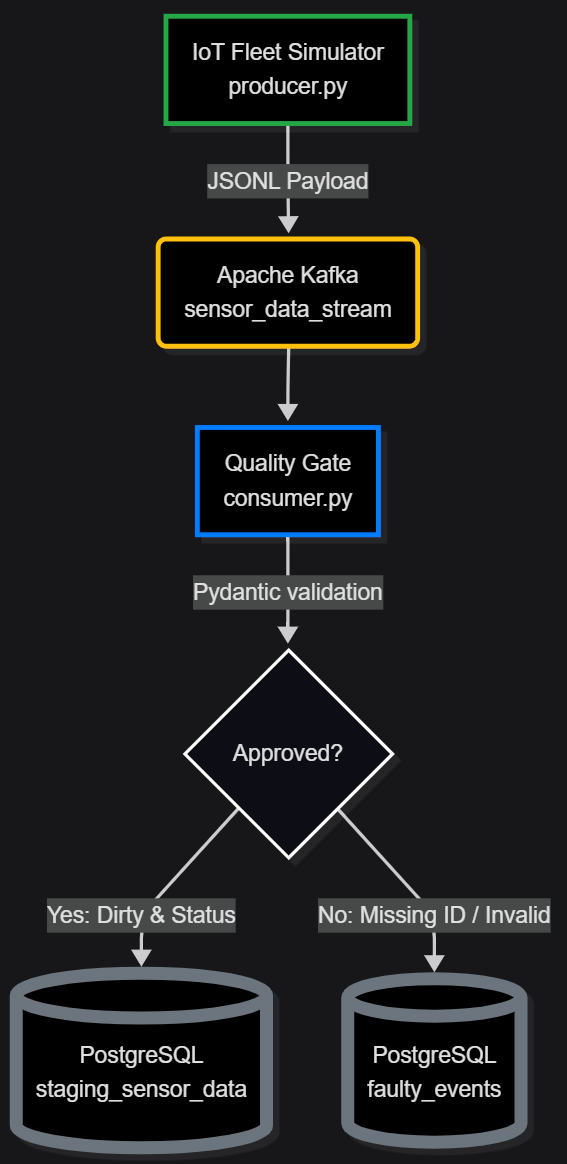
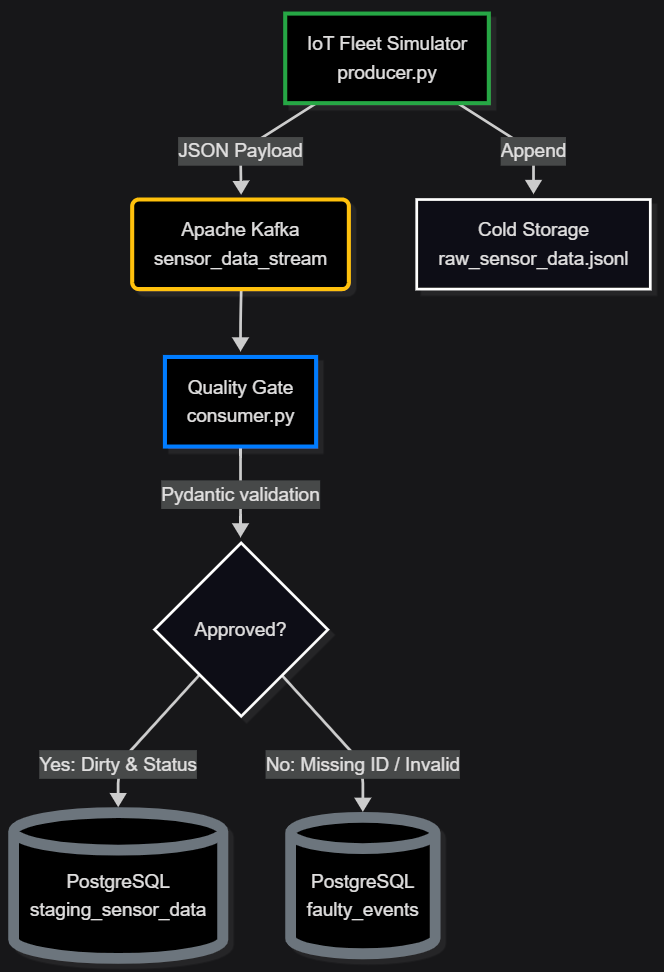
docs(update): updated docs and module overviews to be more correct (#83)

diff --git a/docs/database_design.md b/docs/database_design.md
@@ -33,7 +33,12 @@ Nej, det funkar utmärkt att ha allt i samma PostgreSQL databas! Det finns två 
 
 1. **Prefix (Det Vi i grupp 6 gör):** Tabellerna heter `staging_...`, `silver_...`, `dim_...` och `fact_...`. Namnet berättar vilket lager tabellen tillhör.
 
-2. **Schemas (Lite mer avancerat):** Man kan skapa logiska mappar i Postgres (`CREATE SCHEMA bronze;`, `CREATE SCHEMA silver;`) så att tabellerna heter `bronze.sensor_data`, `silver.sensor_data`. Men prefix räcker gott och väl för ett bra ett MvP och detta projekt.
+2. **Schemas (Lite mer avancerat):** Man kan skapa logiska mappar i Postgres (`CREATE SCHEMA bronze;`, `CREATE SCHEMA silver;`) så att tabellerna heter `bronze.sensor_data`, `silver.sensor_data`. 
+
+3. **Prefix VS Schemas:** För denna labb räcker prefix gott och väl för ett bra MvP. Dock så är det värt att nämna *varför* schemas är bättre i större system och det kan sammanfattas till ett ord: **Behörigheter**.
+
+Med `CREATE SCHEMA GOLD; GRANT SELECT ON SCHEMA gold TO analyst_role;` kan man ge analytiker läsrättigheter till Gold utan att de ens kan se `bronze` till exempel. Det kan fungera som ytterligare ett lager av säkerhet både för läckt data men även för att rätt data hamnar hos rätt personer för att kunna utföra så tydliga analyser det bara går.
+
 
 ### Sammanfattning
 *Inom Data Engineering bygger vi slussar. Bronze slussar data till Silver, Silver slussar till Gold. De är löskopplade för att vi ska kunna riva eller bygga om ett lager utan att krascha hela databasen. Relationerna (Foreign Keys) använder vi bara inuti Gold-lagret för att bygga vår affärsmodell!*

diff --git a/docs/module_overview_api.md b/docs/module_overview_api.md
@@ -38,7 +38,9 @@ Our API is built with a _Defense in Depth_ mindset to protect our data and ensur
 
 - **Dependency Injection (`Depends(get_db_connection)`):** Makes our code extremely modular. The endpoint doesn't need to worry about _how_ it gets a database connection; it just asks for one.
 
-- **Row Formatting (`dict_row`):** By default `psycopg` returns data as anonymous tuples. By enabling `row_factory=dict_row`, database rows are automatically converted to Python Dictionaries (with keys like `rpm` and `engine_temp`). This allows FastAPI to seamlessly translate the response into JSON.
+- **Row Formatting (`dict_row`):** By default `psycopg` returns data as anonymous tuples. By enabling `row_factory=dict_row`, database rows are automatically converted to Python Dictionaries (with keys like `rpm` and `engine_temp`). This allows FastAPI to seamlessly translate the response into JSON. 
+
+Without `dict_row` `psycopg` returns tuples as mentioned. But they get returned without column names which makes it impossible for `FastAPI` to know that `(72.4, 1200.0, 8.1)` `72.4` is `engine_temp` and not `rpm`.
 
 - **Dynamic SQL (`WHERE 1=1`):** Starting our query with `WHERE 1=1` is a classic trick(thanks geeksforgeeks!). It allows us to bypass complex `if/else` logic to determine which filter comes first. We just dynamically append `AND [condition]` for every query parameter the user provides.
 

diff --git a/docs/data_lineage_gold_layer.md b/docs/data_lineage_gold_layer.md
@@ -24,7 +24,7 @@ I en traditionell relationsdatabas (OLTP, typ en webbshop) är `ON DELETE CASCAD
 
 Men i ett Data Warehouse / Medallion-arkitektur (OLAP) är regeln nästan alltid: **Vi raderar aldrig data. Vi är "Append-Only"**
 
-* **Risken med Cascade:** Tänk om någon råkar köra en `DELETE` på en motor i `DIM_ENGINE` av misstag. Om vi hade `ON DELETE CASCADE`, skulle Postgres blixtsnabbt radera **alla** historiska mätvärden för den motorn i faktatabellen! Plötsligt försvinner tre års KPI-historik i vår dashboard, och företaget tappar all sin finansiella sta§tistik för den maskinen (BIG PROBLEM!!!)
+* **Risken med Cascade:** Tänk om någon råkar köra en `DELETE` på en motor i `DIM_ENGINE` av misstag. Om vi hade `ON DELETE CASCADE`, skulle Postgres blixtsnabbt radera **alla** historiska mätvärden för den motorn i faktatabellen! Plötsligt försvinner tre års KPI-historik i vår dashboard, och företaget tappar all sin finansiella statistik för den maskinen (BIG PROBLEM!!!)
 
 * **Soft Deletes:** Istället för att radera en motor som skrotas, lägger man ofta till en kolumn i dimensionen som heter `is_active = False` (Här är en liknelse med logiken med varför vi använder `is_valid` och varför vi använder oss av `is_valid =` flaggan). Då bevaras historiken för rapporterna, men maskinen dyker inte upp som ett val i nya sökningar.
 

diff --git a/docs/module_overview_orchestration.md b/docs/module_overview_orchestration.md
@@ -11,6 +11,7 @@ Vi använder ett slutet, internt Docker-nätverk där våra tjänster pratar med
 * **`postgres:16-alpine`**: Databasen. Vi använder en dölj volym `live_pg_data` för att datan ska överleva även om containern raderas. Exponeras lokalt via port `5439` för PgAdmin åtkomst.
 
 * **`apache/kafka:latest`**: Vår Message Broker. Körs i KRaft-mode (utan Zookeeper) för en mer lättviktig setup.
+    * **Viktigt att veta:** För denna lab använder vi oss av `latest` men `latest` som tag i riktig produktion är ett anti-pattern som kan leda till stora problem. Detta för att en ny version kan bryta bakåtkompatibiliteten utan förvarning. Det var ett medvetet val i MvP syfte att vi använder oss av `latest` för att snabbt börja jobba men i produktion vill man helst pinna en specifik version.
 
 ### 2. Applikationer (Egenbyggd Image via `Dockerfile`)
 Vi använder en enda centraliserad `Dockerfile` (baserad på `python:3.12-slim`) för hela vår kodbas. Den installerar våra dependencies via `uv`. I vår Compose fil snurrar vi sedan upp tre isolerade kopior av denna Image med olika ansvarsområden:

diff --git a/docs/module_overview_CICD_github_actions.md b/docs/module_overview_CICD_github_actions.md
@@ -19,7 +19,7 @@ Pipelinen körs på en isolerad Ubuntu-server i molnet `runs-on: ubuntu-latest` 
 3. **Kodgranskning (Linting & Formatting):** 
 - Kör `Ruff` (en extremt snabb linter/formaterare skriven i Rust som nämndes ovan)
 
-- Den analyserar koden efter anti-patterns, oanvända imports och type errors.
+- Den analyserar koden efter anti-patterns och oanvända imports. Notera att Ruff enbart är en linter och formatterare, riktig type checking görs av verktyg så som `mypy` eller `pyright`
 
 - Den verifierar att koden följer projektets formateringsstandard (PEP 8). Om koden är ful, avbryts pipelinen(Så var snäll att högerklicka på scripten, välj format document with... Sedan välj din formatter. Helst Ruff eller autopep8, men Black och Prettier BÖR fungera)
 

diff --git a/docs/module_overview_db_revision.md b/docs/module_overview_db_revision.md
@@ -46,6 +46,7 @@ När vi kör kommandot `uv run alembic upgrade head` händer följande:
 2. Den läser av vilket ID som ligger där (ex: `ea79237cf323`).
 
 3. Den tittar i vår lokala kodmapp (`alembic/versions/`) och letar upp skript som är *nyare* än detta ID.
+    - - **VIKTIGT ATT VETA:** kring `alembic/versions/` mappen är att den ska committas till Git MEN att `alembic.ini` *KAN* innehålla connection strings som **INTE** ska committas. Därför är det kritiskt att alltid använda sig av t.ex det vi gör i detta projekt med vår `get_dsn()` funktion i `src/config/` mappen.
 
 4. Den kör `upgrade()`-funktionen i de nya skripten.
 

diff --git a/docs/session_tracking_notes/Johnny/session_tracking_johnny.md b/docs/session_tracking_notes/Johnny/session_tracking_johnny.md
@@ -201,3 +201,6 @@ Add database connection pool for API
 - Branch out and lock branch to keep current progress of work stable
     - **Done**
     
+- Cleaned up a bit in docs and remade diagrams to show correct flow of entire architecture
+    - **Done**
+    
